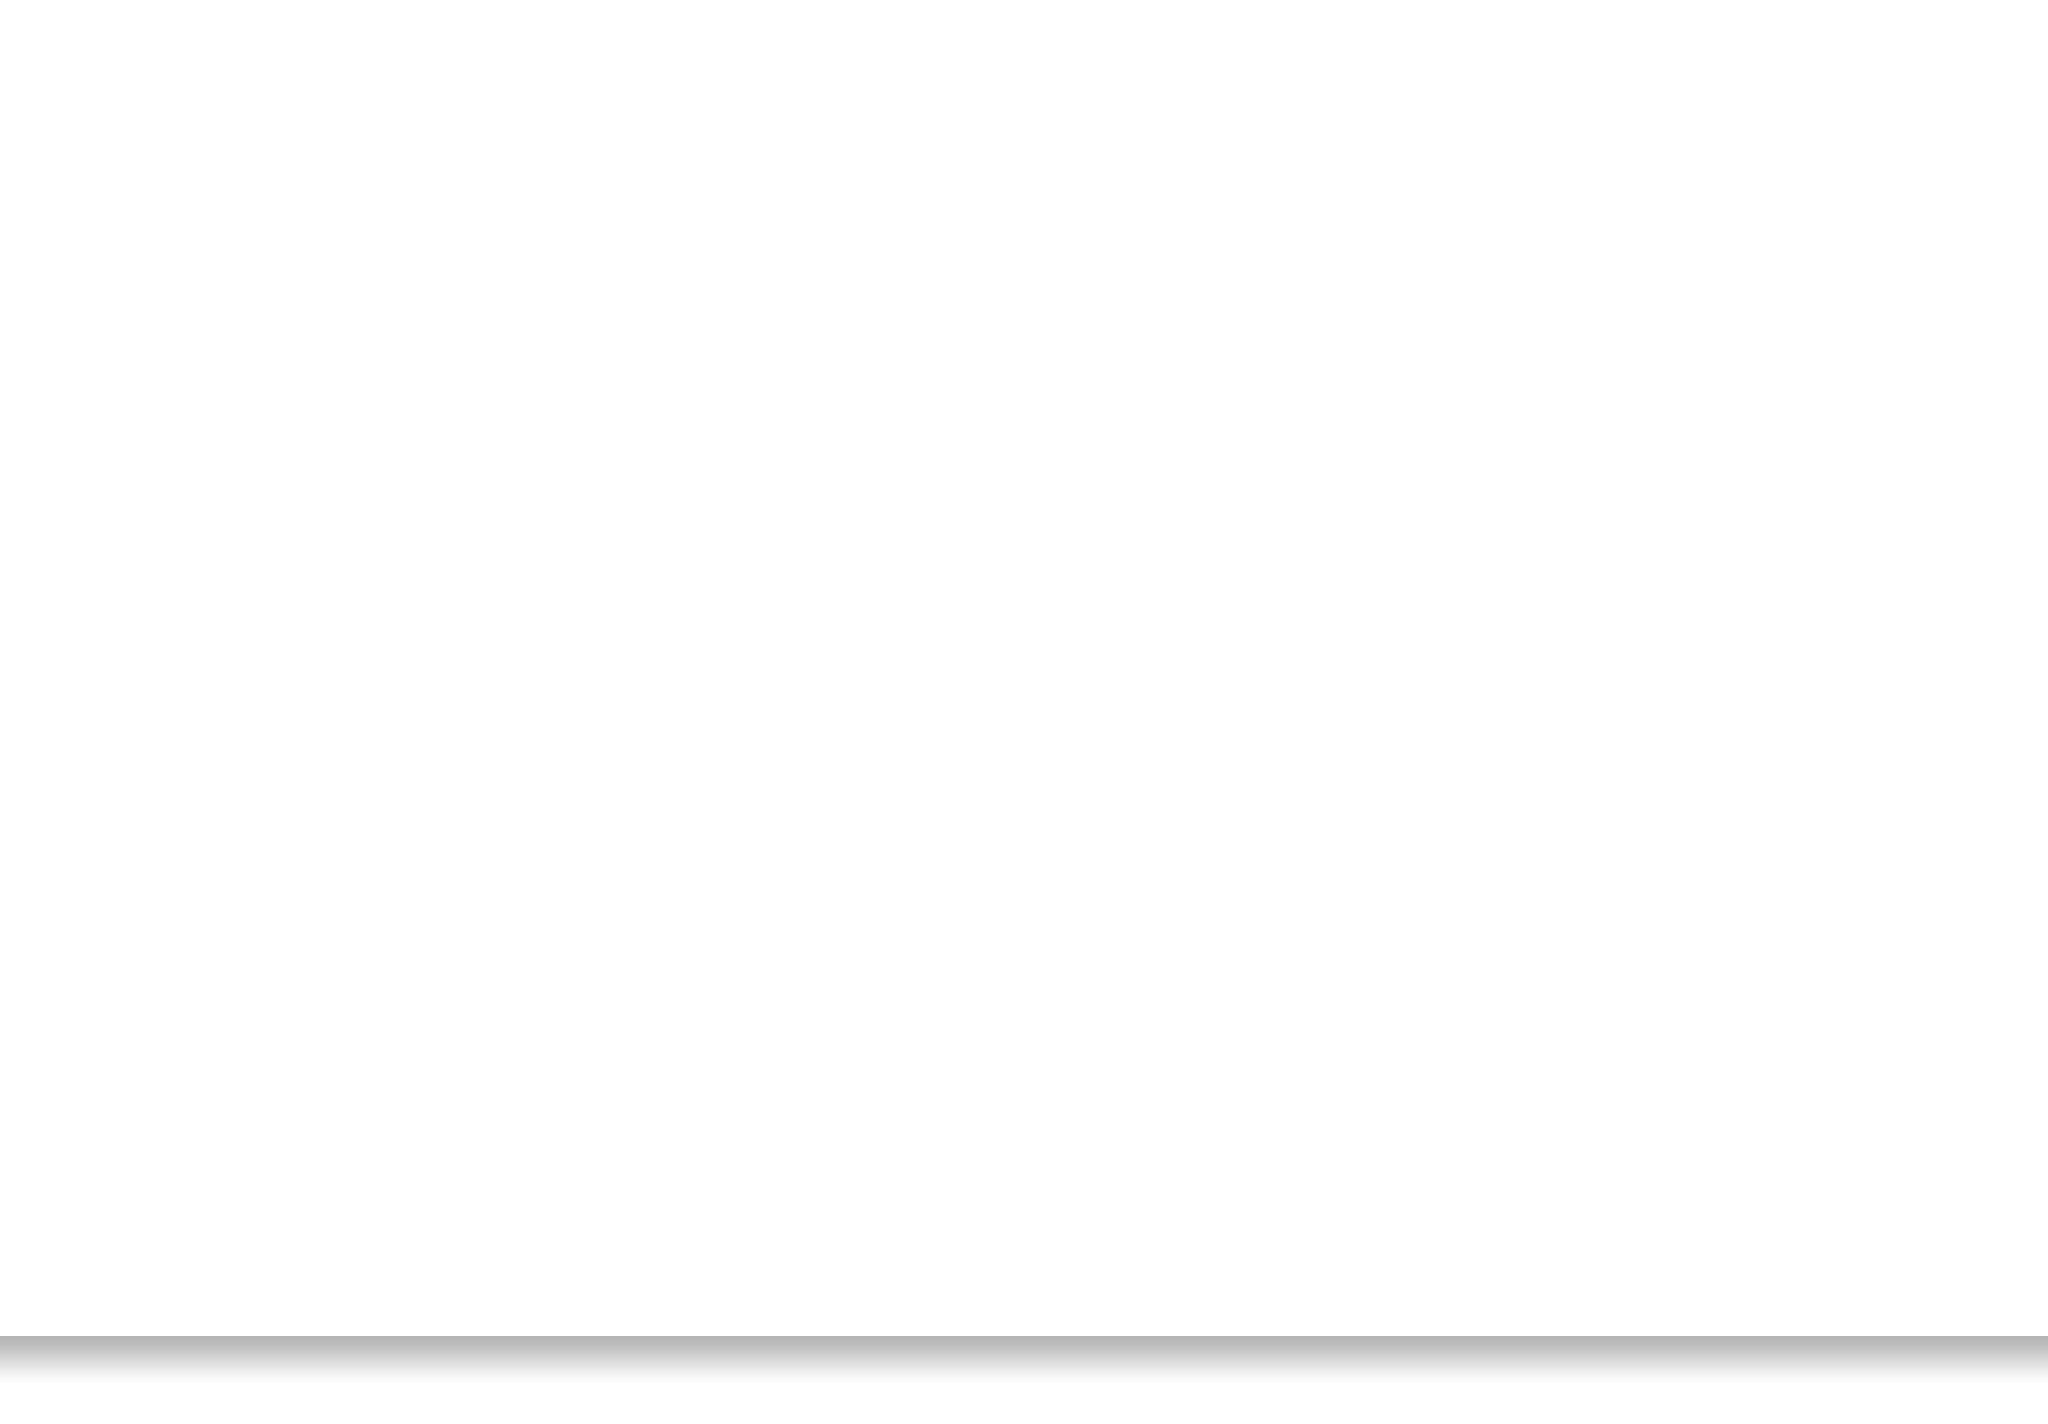
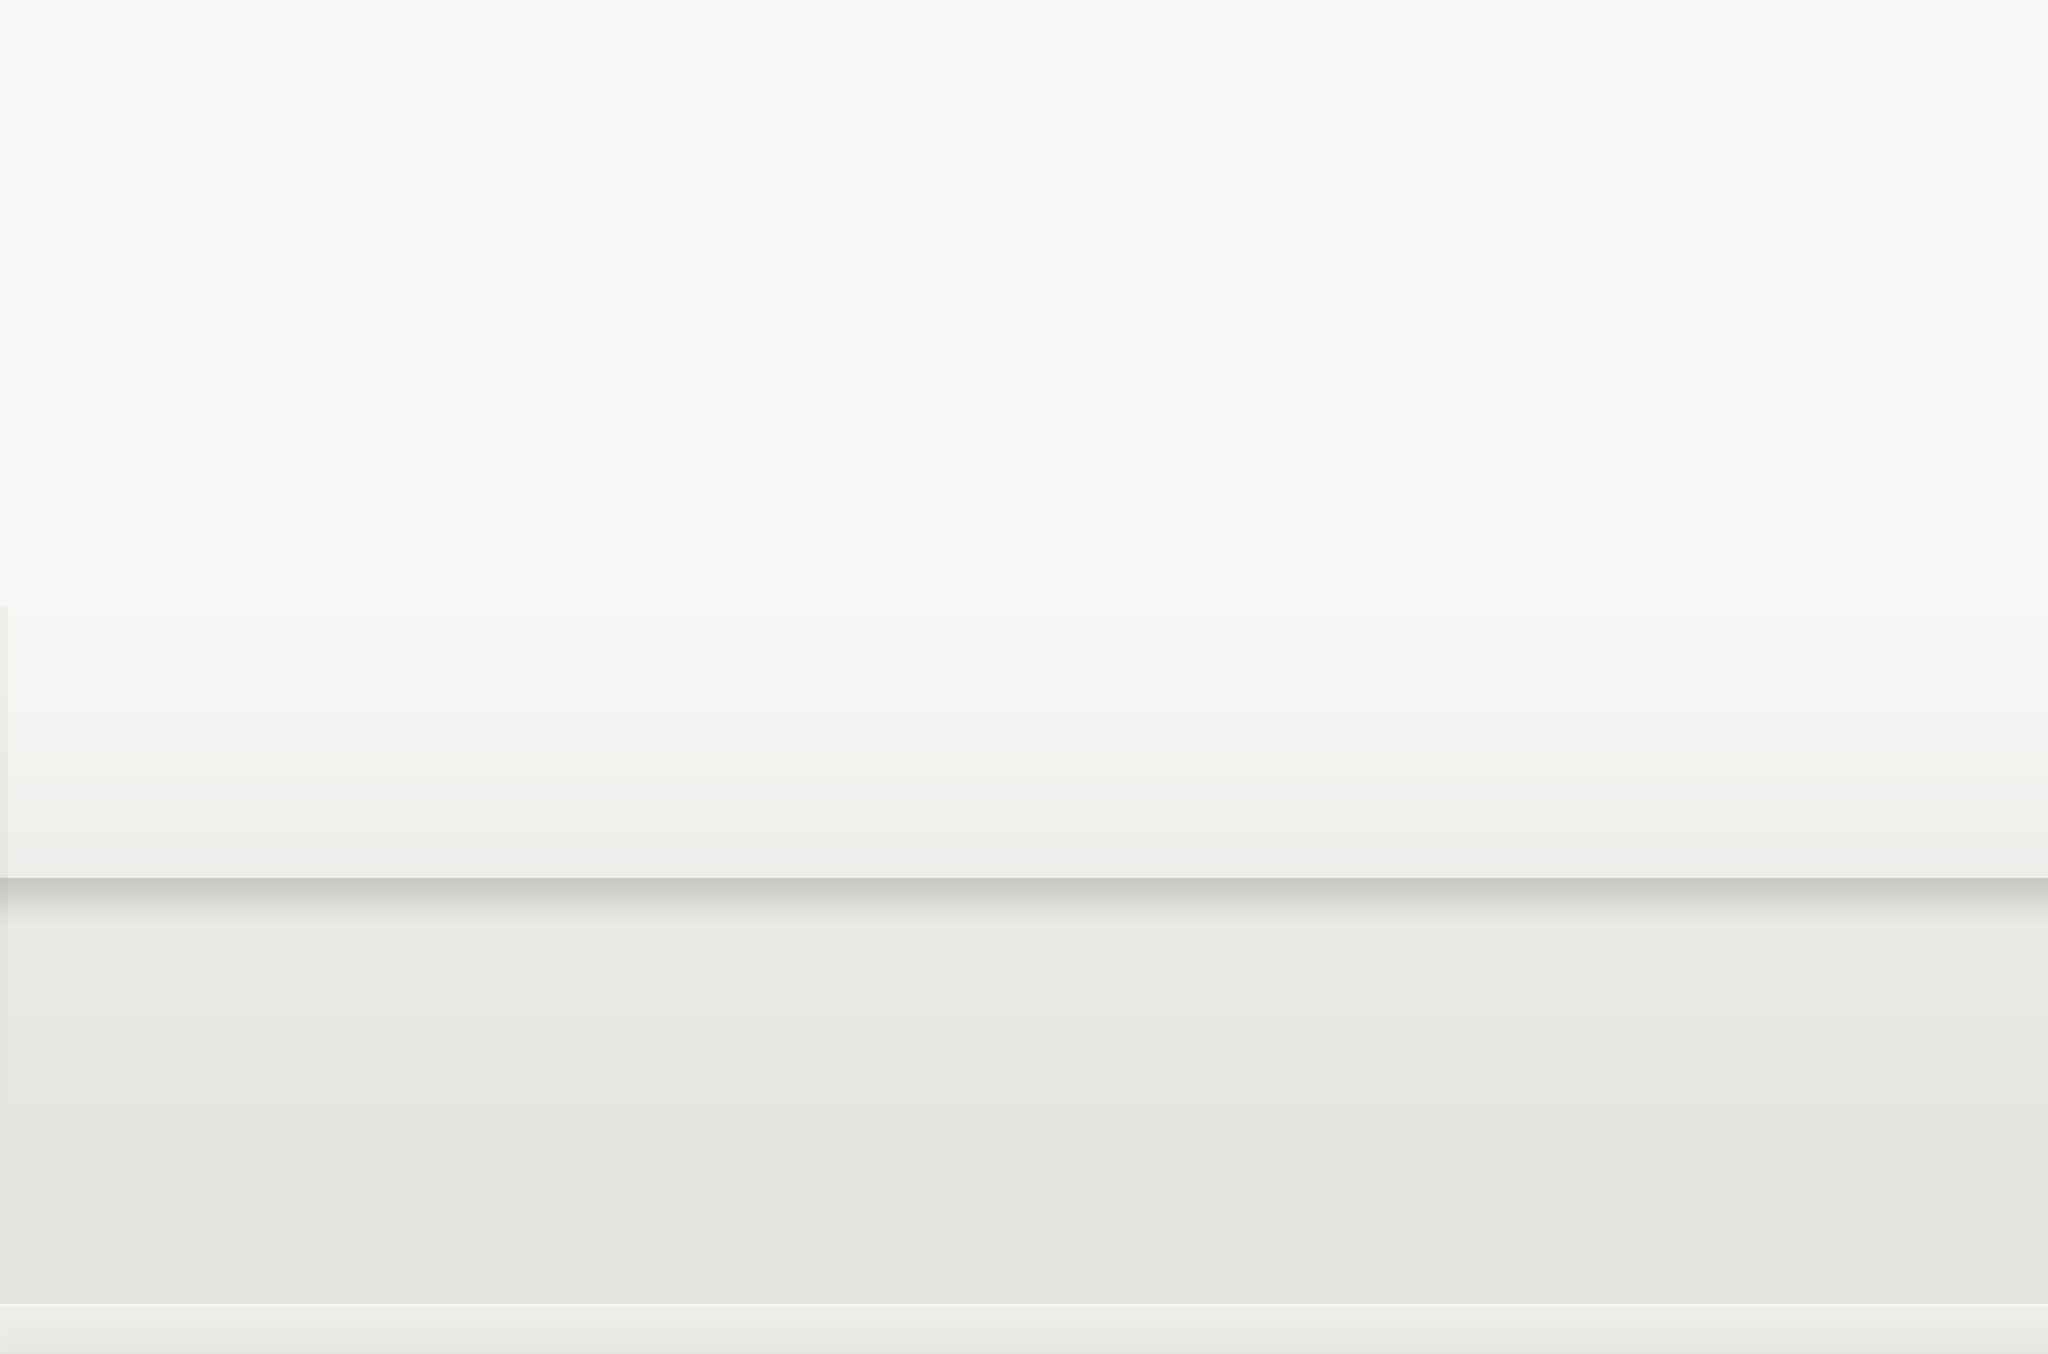
WIP

diff --git a/Cook/Classes/Controllers/Store/StoreViewController.m b/Cook/Classes/Controllers/Store/StoreViewController.m
@@ -13,11 +13,11 @@
 #import "StoreBookCoverViewCell.h"
 #import "EventHelper.h"
 #import "StoreTabView.h"
-#import "Theme.h"
 
 @interface StoreViewController () <StoreTabViewDelegate, StoreCollectionViewControllerDelegate>
 
-@property (nonatomic, strong) UIView *backgroundView;
+@property (nonatomic, strong) UIImageView *bottomShadowView;
+
 @property (nonatomic, strong) FeaturedStoreCollectionViewController *featuredViewController;
 @property (nonatomic, strong) FriendsStoreCollectionViewController *friendsViewController;
 @property (nonatomic, strong) SuggestedStoreCollectionViewController *suggestedViewController;
@@ -29,7 +29,12 @@
 
 @implementation StoreViewController
 
-#define kInsets                 UIEdgeInsetsMake(100.0, 0.0, 100.0, 0.0)
+#define kInsets                     UIEdgeInsetsMake(100.0, 0.0, 100.0, 0.0)
+#define kVisibleHeight              340.0
+#define kShelfTopOffset             438.0
+#define kShelfTopOffsetFromBottom   239.0
+#define kShelfHeight                212.0
+#define kShellBottomShelfTrayHeight 20.0
 
 - (void)dealloc {
     [EventHelper unregisterLoginSucessful:self];
@@ -40,6 +45,7 @@
     [super viewDidLoad];
     
     self.view.autoresizingMask = UIViewAutoresizingFlexibleRightMargin|UIViewAutoresizingFlexibleWidth;
+    
     [self initBackground];
     
     [EventHelper registerLoginSucessful:self selector:@selector(loggedIn:)];
@@ -55,6 +61,18 @@
 
 - (void)enable:(BOOL)enable {
     DLog();
+}
+
+- (CGFloat)visibleHeight {
+    return kVisibleHeight;
+}
+
+- (CGFloat)bottomShelfTrayHeight {
+    return kShellBottomShelfTrayHeight;
+}
+
+- (CGFloat)bottomShadowHeight {
+    return self.bottomShadowView.frame.size.height;
 }
 
 #pragma mark - StoreTabView methods
@@ -80,28 +98,39 @@
 #pragma mark - Private methods
 
 - (void)initBackground {
-    NSString *shelfName = @"cook_dash_bg_shelves.png";
-    if ([Theme IOS7Look]) {
-        shelfName = @"cook_dash_shelves.png";
-    }
+    UIImageView *backgroundView = [[UIImageView alloc] initWithImage:[UIImage imageNamed:@"cook_dash_shelves.png"]];
+    UIImageView *bottomShadowView = [[UIImageView alloc] initWithImage:[UIImage imageNamed:@"cook_dash_shelves_shadow.png"]];
     
-    UIImageView *backgroundView = [[UIImageView alloc] initWithImage:[UIImage imageNamed:shelfName]];
-    self.view.frame = CGRectMake(self.view.frame.origin.x,
-                                 self.view.frame.origin.y,
-                                 backgroundView.frame.size.width,
-                                 backgroundView.frame.size.height);
+    // Shelf + Bottom Shadow
+    self.view.frame = (CGRect){
+        self.view.frame.origin.x,
+        self.view.frame.origin.y,
+        backgroundView.frame.size.width,
+        backgroundView.frame.size.height + bottomShadowView.frame.size.height
+    };
+    
     [self.view addSubview:backgroundView];
     [self.view sendSubviewToBack:backgroundView];
-    self.backgroundView = backgroundView;
+    
+    // Bottom shadow.
+    bottomShadowView.frame = (CGRect){
+        self.view.bounds.origin.x,
+        self.view.bounds.origin.y + backgroundView.frame.size.height,
+        bottomShadowView.frame.size.width,
+        bottomShadowView.frame.size.height
+    };
+    [self.view addSubview:bottomShadowView];
+    [self.view sendSubviewToBack:bottomShadowView];
+    self.bottomShadowView = bottomShadowView;
 }
 
 - (void)initStores {
-    CGFloat rowHeight = [StoreBookCoverViewCell cellSize].height;
+    CGFloat rowHeight = kShelfHeight;
     self.storeCollectionViewControllers = [NSMutableArray arrayWithCapacity:3];
     
     FeaturedStoreCollectionViewController *featuredViewController = [[FeaturedStoreCollectionViewController alloc] initWithDelegate:self];
     featuredViewController.view.frame = CGRectMake(self.view.bounds.origin.x,
-                                                   self.view.bounds.size.height - rowHeight + 38.0,
+                                                   self.view.bounds.size.height - kShelfTopOffsetFromBottom - [self bottomShadowHeight],
                                                    self.view.bounds.size.width,
                                                    rowHeight);
     featuredViewController.view.autoresizingMask = UIViewAutoresizingFlexibleRightMargin|UIViewAutoresizingFlexibleWidth|UIViewAutoresizingFlexibleTopMargin;

diff --git a/Cook/Classes/Controllers/RootViewController.m b/Cook/Classes/Controllers/RootViewController.m
@@ -411,12 +411,12 @@
     
     if (level == kStoreLevel) {
         frame = CGRectMake(self.view.bounds.origin.x,
-                           self.view.bounds.size.height - self.storeViewController.view.frame.size.height - kStoreShowAdjustment,
+                           self.view.bounds.size.height - self.storeViewController.view.frame.size.height - [self.storeViewController visibleHeight],
                            self.view.bounds.size.width,
                            self.storeViewController.view.frame.size.height);
     } else if (level == kBenchtopLevel) {
         frame = CGRectMake(self.view.bounds.origin.x,
-                           -self.storeViewController.view.frame.size.height + kStoreHideTuckOffset,
+                           -self.storeViewController.view.frame.size.height + [self.storeViewController bottomShelfTrayHeight] + [self.storeViewController bottomShadowHeight],
                            self.view.bounds.size.width,
                            self.storeViewController.view.frame.size.height);
     } else if (level == kSettingsLevel) {
@@ -426,6 +426,7 @@
                            self.storeViewController.view.frame.size.height);
     }
     
+    DLog(@"level [%d] %@", level, NSStringFromCGRect(frame));
     return frame;
 }
 
@@ -434,18 +435,19 @@
     
     if (level == kStoreLevel) {
         frame = CGRectMake(self.view.bounds.origin.x,
-                           self.view.bounds.size.height - kStoreShowAdjustment - kStoreShadowOffset,
+                           self.storeViewController.view.frame.origin.y + self.storeViewController.view.frame.size.height - [self.storeViewController bottomShelfTrayHeight] - [self.storeViewController bottomShadowHeight],
                            self.view.bounds.size.width,
                            self.view.bounds.size.height);
     } else if (level == kBenchtopLevel) {
         frame = self.view.bounds;
     } else if (level == kSettingsLevel) {
         frame = CGRectMake(self.view.bounds.origin.x,
-                           self.view.bounds.size.height - self.settingsViewController.view.frame.size.height - self.view.bounds.size.height - kSettingsOffsetBelowBenchtop,
+                           self.view.bounds.origin.y - self.settingsViewController.view.frame.size.height,
                            self.view.bounds.size.width,
                            self.view.bounds.size.height);
     }
     
+    DLog(@"level [%d] %@", level, NSStringFromCGRect(frame));
     return frame;
 }
 
@@ -454,12 +456,12 @@
     
     if (level == kStoreLevel) {
         frame = CGRectMake(self.view.bounds.origin.x,
-                           self.view.bounds.size.height - kStoreShowAdjustment - kStoreShadowOffset + self.view.bounds.size.height - kSettingsOffsetBelowBenchtop,
+                           self.benchtopViewController.view.frame.origin.y + self.benchtopViewController.view.frame.size.height,
                            self.view.bounds.size.width,
                            self.settingsViewController.view.frame.size.height);
     } else if (level == kBenchtopLevel) {
         frame = CGRectMake(self.view.bounds.origin.x,
-                           self.view.bounds.size.height + kSettingsOffsetBelowBenchtop,
+                           self.view.bounds.size.height,
                            self.view.bounds.size.width,
                            self.settingsViewController.view.frame.size.height);
     } else if (level == kSettingsLevel) {
@@ -469,6 +471,7 @@
                            self.settingsViewController.view.frame.size.height);
     }
     
+    DLog(@"level [%d] %@", level, NSStringFromCGRect(frame));
     return frame;
 }
 

diff --git a/Cook/Classes/Controllers/Store/StoreCollectionViewController.m b/Cook/Classes/Controllers/Store/StoreCollectionViewController.m
@@ -47,10 +47,8 @@
 - (void)viewDidLoad {
     [super viewDidLoad];
     
-    self.collectionView.backgroundColor = [UIColor clearColor];
-    
     self.view.autoresizingMask = UIViewAutoresizingFlexibleRightMargin|UIViewAutoresizingFlexibleWidth|UIViewAutoresizingFlexibleBottomMargin|UIViewAutoresizingFlexibleHeight;
-    
+    self.collectionView.backgroundColor = [UIColor clearColor];
     self.collectionView.alwaysBounceHorizontal = YES;
     self.collectionView.showsHorizontalScrollIndicator = NO;
     self.collectionView.decelerationRate = UIScrollViewDecelerationRateFast;

diff --git a/Cook/Classes/Controllers/Store/StoreBookCoverViewCell.m b/Cook/Classes/Controllers/Store/StoreBookCoverViewCell.m
@@ -21,6 +21,7 @@
 
 + (CGSize)cellSize {
     return [BenchtopBookCoverViewCell cellSize];
+    // return CGSizeMake(128.0, 180.0);
 }
 
 - (CKBookCoverView *)createBookCoverViewWithDelegate:(id<CKBookCoverViewDelegate>)delegate {
@@ -29,7 +30,7 @@
 
 - (void)loadBook:(CKBook *)book {
     [self.bookCoverView setCover:book.cover illustration:book.illustration];
-    [self.bookCoverView setName:book.name author:[book userName] editable:NO];
+    [self.bookCoverView setName:nil author:[book userName] editable:NO];
     [self enableDeleteMode:NO];
 }
 

diff --git a/Cook/Classes/Controllers/Dashboard/PagingBenchtopBackgroundView.m b/Cook/Classes/Controllers/Dashboard/PagingBenchtopBackgroundView.m
@@ -88,7 +88,11 @@
 }
 
 - (UIImage *)blurWithImage:(UIImage *)image {
-    return [image applyExtraLightEffect];
+    
+    UIColor *tintColor = [UIColor colorWithWhite:1.0 alpha:0.7];
+    return [image applyBlurWithRadius:50 tintColor:tintColor saturationDeltaFactor:1.8 maskImage:nil];
+    
+    // return [image applyExtraLightEffect];
 }
 
 - (UIImage *)coreImageBlurWithImage:(UIImage *)image {

diff --git a/Cook/Classes/Controllers/Store/StoreViewController.h b/Cook/Classes/Controllers/Store/StoreViewController.h
@@ -14,5 +14,8 @@
 @property (nonatomic, assign) id<BenchtopViewControllerDelegate> delegate;
 
 - (void)enable:(BOOL)enable;
+- (CGFloat)visibleHeight;
+- (CGFloat)bottomShelfTrayHeight;
+- (CGFloat)bottomShadowHeight;
 
 @end
